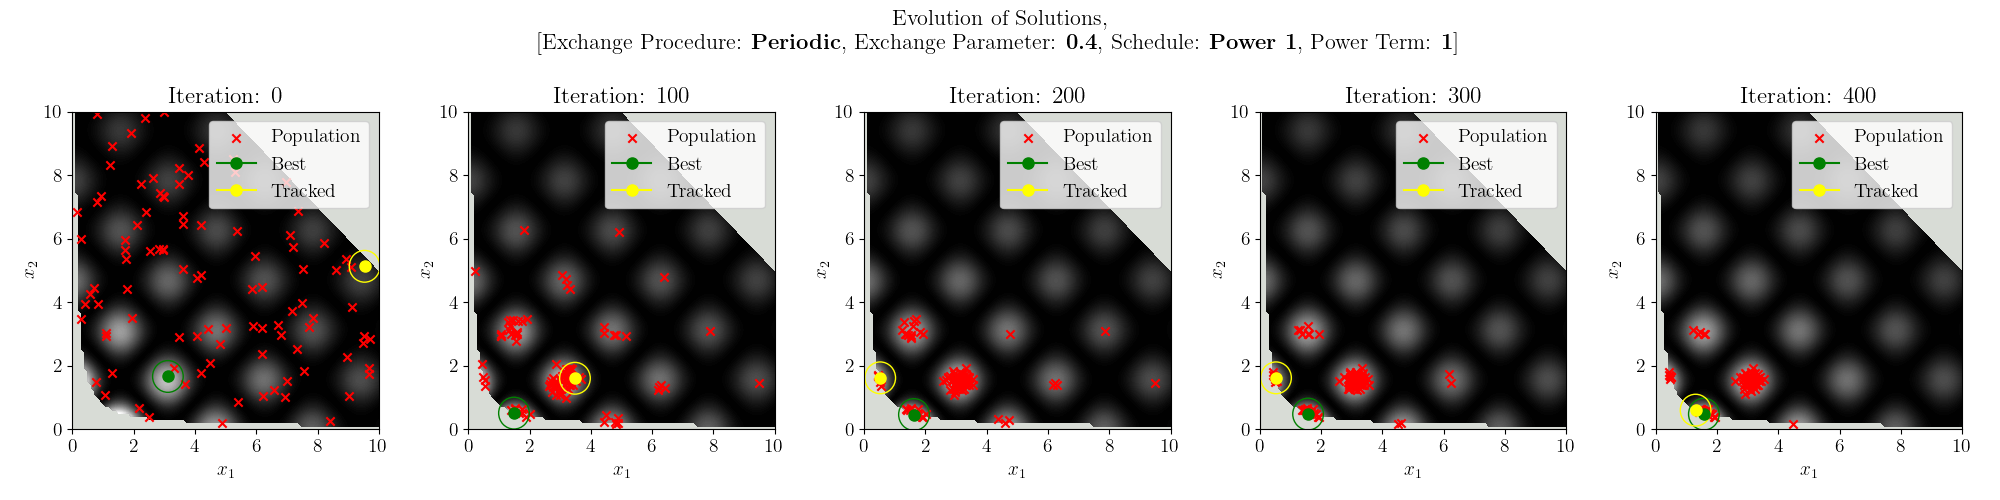
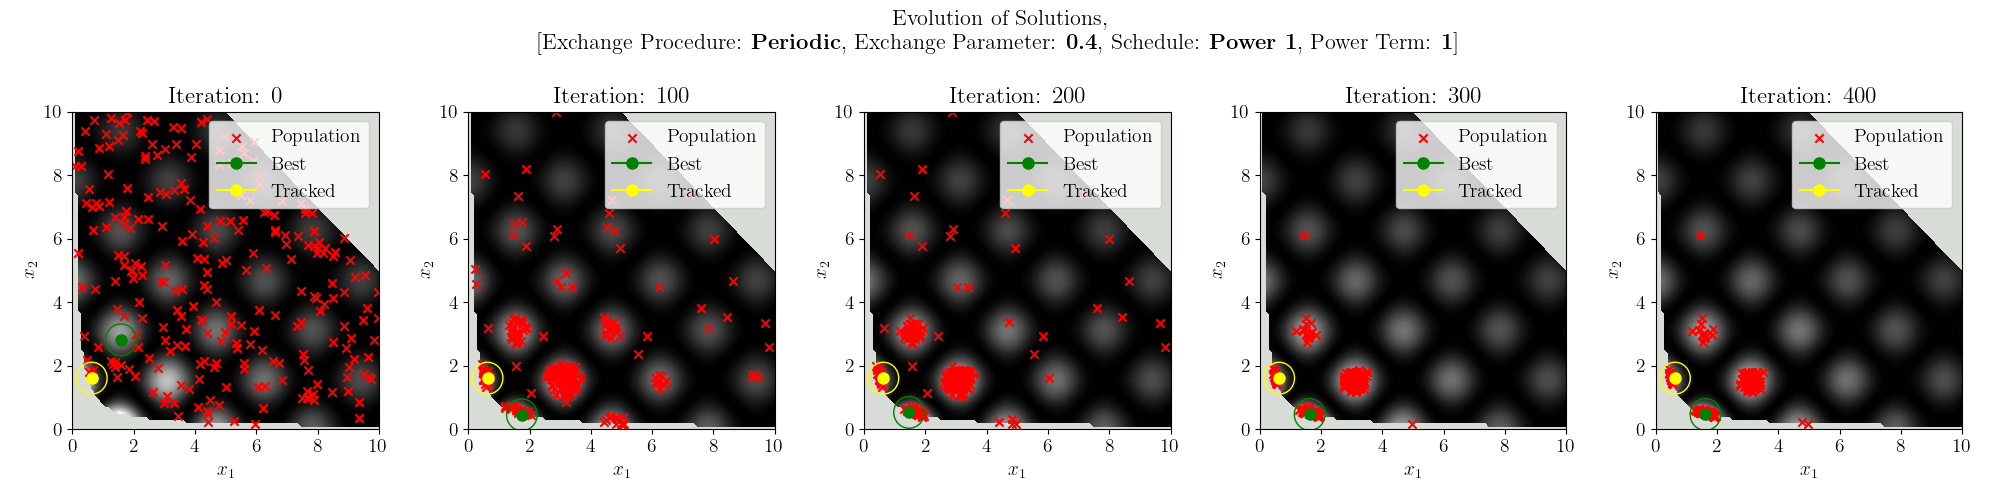
not a big change

diff --git a/PT_TuningExperiments.py b/PT_TuningExperiments.py
@@ -13,7 +13,7 @@ X_RANGE=(0,10)
 FUNCTION = KBF_function
 X_DIM = 2
 NUM_REPLICAS = 10
-NUM_SOL_PER_REPLICA = 100 # 250 // NUM_REPLICAS # 250 solutions overall, same as CGA population
+NUM_SOL_PER_REPLICA = 250 // NUM_REPLICAS # 250 solutions overall, same as CGA population
 EXCHANGE_PROCEDURE = 'Periodic' # 'Stochastic
 EXCHANGE_PARAM = 0.4
 TEMP_TYPE = 'Power'
@@ -76,7 +76,7 @@ for iter in tqdm(range(NUM_ITERS)):
         plot_num = (iter // PLOT_EVERY)
         idx = plot_num % num_plots
         axs[idx].set_title(f'Iteration: {iter}')
-        final_replica = PT.scale_up(PT.current_solutions[-1])
+        final_replica = PT.get_all_solutions()
         plot_population(final_replica, axs[idx], best=PT.get_best_solution(), last=final_replica[-1])
     
     PT.update_chains()
